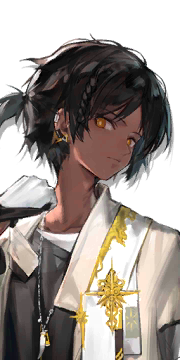
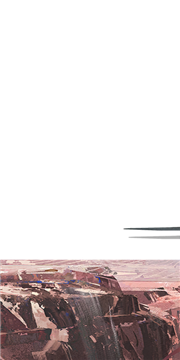
新图标(催化/麻痹)、修复角色选择界面、新增备选立绘

diff --git a/src/ThornsCards.cs b/src/ThornsCards.cs
@@ -57,6 +57,8 @@ internal static class ThornsPortraits
     public static readonly string AlchemyRelease = ImageHelper.GetImagePath("packed/thorns_icons/alchemy_release_icon.png");
     public static readonly string NeuralDamage = ImageHelper.GetImagePath("packed/thorns_icons/neural_damage_icon.png");
     public static readonly string MySea = ImageHelper.GetImagePath("packed/thorns_icons/my_sea_icon.png");
+    public static readonly string Catalyst = ImageHelper.GetImagePath("packed/thorns_icons/catalyst_icon.png");
+    public static readonly string Paralysis = ImageHelper.GetImagePath("packed/thorns_icons/paralysis_icon.png");
 }
 
 internal static class ThornsAlchemy